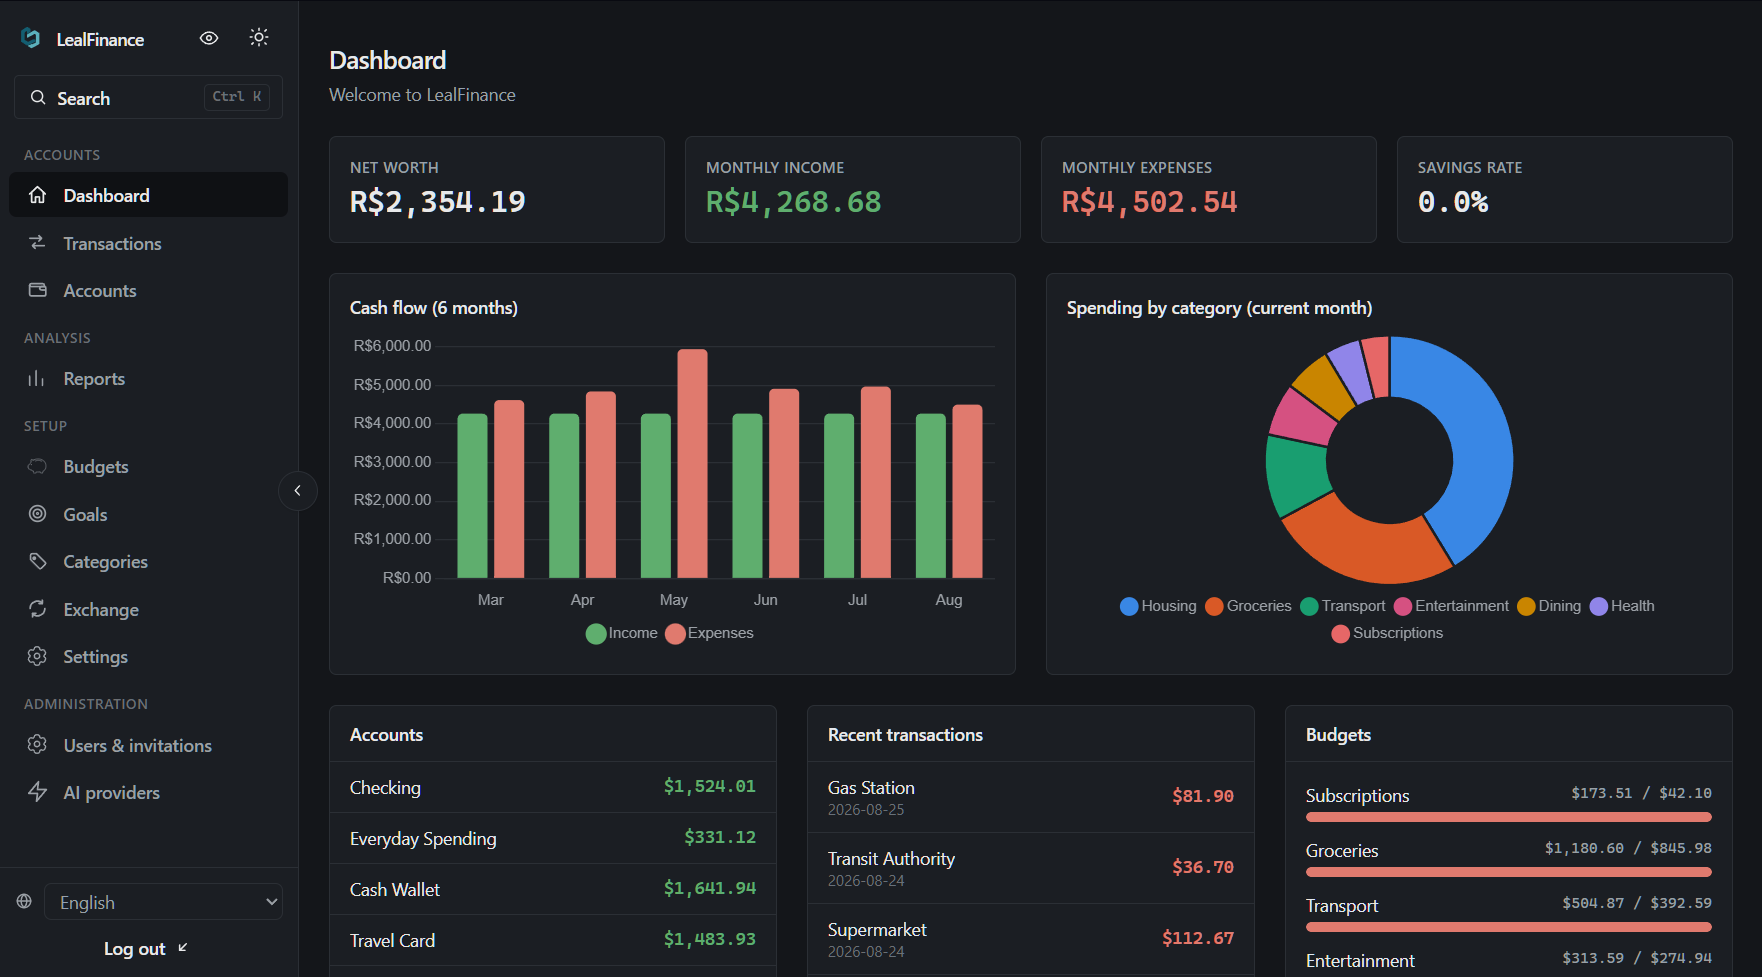
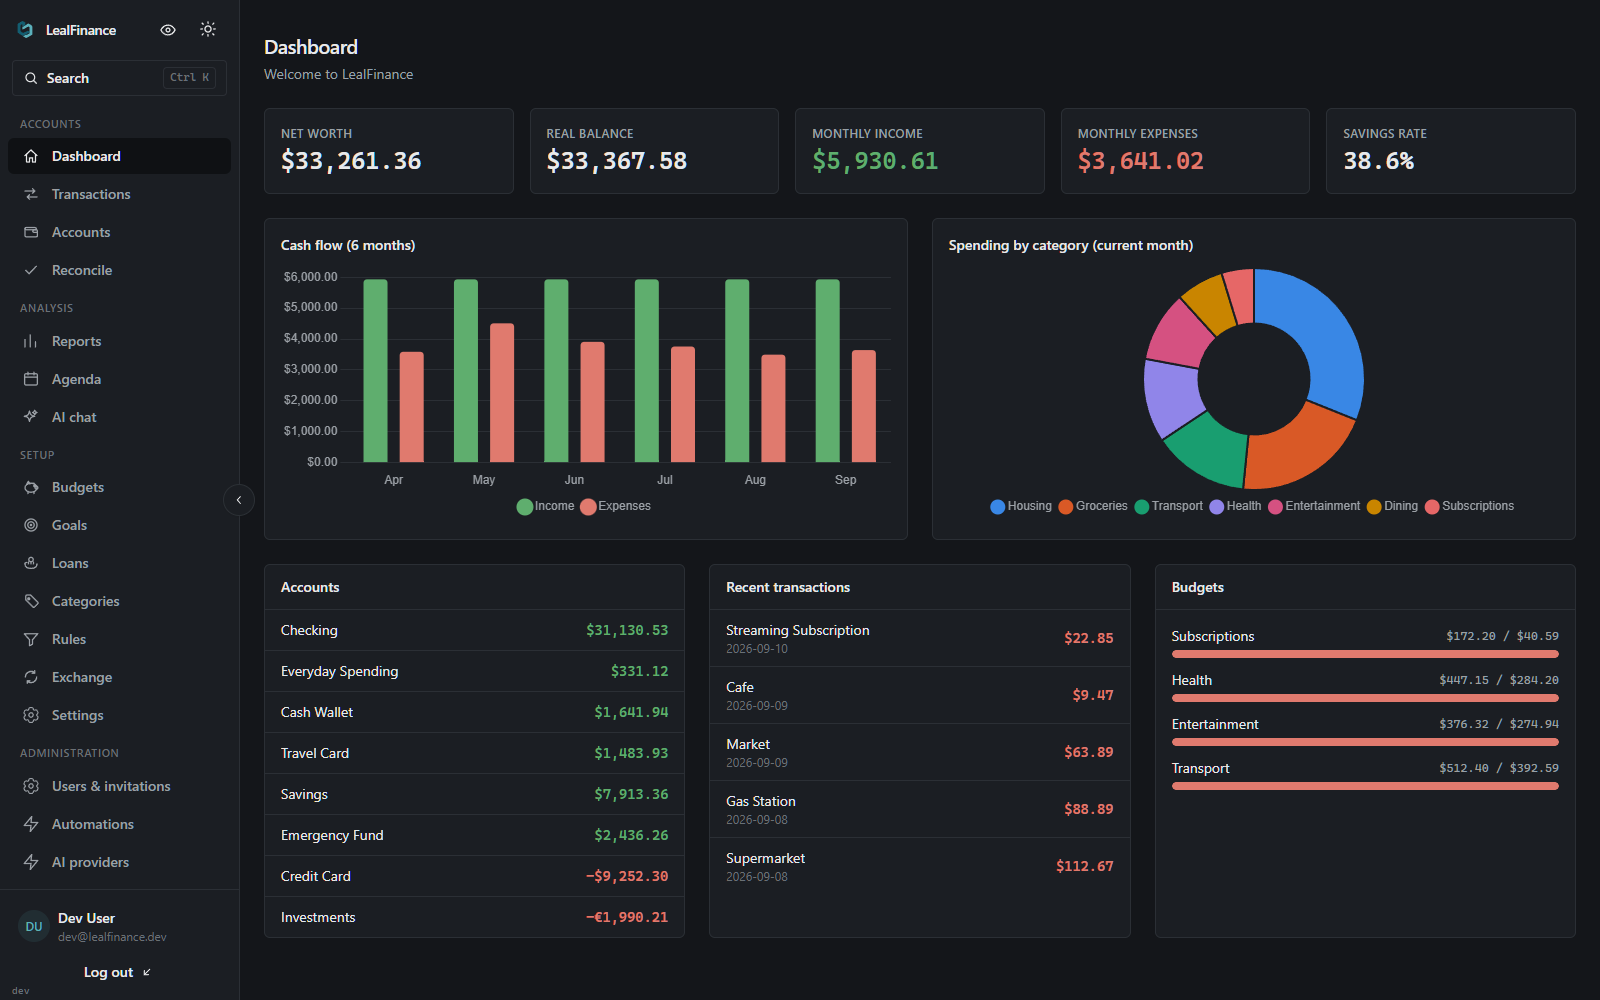
fix: translate CSV and backup file pickers, refresh README preview and credit Securo (#105)
Native file inputs showed the browser's own 'Choose File / No file chosen' text. They now use a hidden input behind a Transloco-translated button and status label, with common.file.* keys added to all 28 catalogs. The README preview is regenerated from the demo data, and a new Acknowledgements section credits Securo as an inspiration.

diff --git a/frontend/src/app/features/transactions/import/transaction-import.html b/frontend/src/app/features/transactions/import/transaction-import.html
@@ -6,15 +6,27 @@
       <div>
         <label class="form-label" for="import-file">{{ t('transactions.import.fields.file') }}</label>
         <input
-          id="import-file"
+          #fileInput
           type="file"
           accept=".csv,text/csv"
-          class="form-input"
+          hidden
           (change)="onFileSelected($event)"
         />
-        @if (fileName()) {
-          <p class="mt-1 text-xs text-content-muted">{{ fileName() }}</p>
-        }
+        <div class="flex flex-wrap items-center gap-x-3 gap-y-1">
+          <button
+            id="import-file"
+            appButton
+            variant="secondary"
+            type="button"
+            class="whitespace-nowrap"
+            (click)="fileInput.click()"
+          >
+            {{ t('common.file.choose') }}
+          </button>
+          <span class="min-w-0 break-all text-xs text-content-muted" dir="auto">
+            {{ fileName() || t('common.file.none') }}
+          </span>
+        </div>
       </div>
       <div>
         <label class="form-label" for="import-account">{{ t('transactions.filters.account') }}</label>

diff --git a/frontend/src/app/features/settings/settings.html b/frontend/src/app/features/settings/settings.html
@@ -433,13 +433,28 @@
       </p>
       <label class="form-label" for="backup-file">{{ t('settings.backup.restore.file') }}</label>
       <input
-        id="backup-file"
-        class="form-input"
+        #backupInput
         type="file"
         accept="application/json,.json"
-        [disabled]="restoreLoading()"
+        hidden
         (change)="onRestoreFile($event)"
       />
+      <div class="flex flex-wrap items-center gap-x-3 gap-y-1">
+        <button
+          id="backup-file"
+          appButton
+          variant="secondary"
+          type="button"
+          class="whitespace-nowrap"
+          [disabled]="restoreLoading()"
+          (click)="backupInput.click()"
+        >
+          {{ t('common.file.choose') }}
+        </button>
+        @if (!restoreFilename()) {
+          <span class="text-sm text-content-muted">{{ t('common.file.none') }}</span>
+        }
+      </div>
       @if (restoreFilename(); as filename) {
         <p class="mt-2 text-sm text-content-muted" role="status">
           {{ t('settings.backup.restore.selected', { filename }) }}

diff --git a/README.md b/README.md
@@ -122,6 +122,11 @@ contributing.
 - [`SUPPORT.md`](SUPPORT.md) - questions, bugs, and feature requests
 - [`CODE_OF_CONDUCT.md`](CODE_OF_CONDUCT.md) - community expectations
 
+## Acknowledgements
+
+LealFinance is inspired by [Securo](https://github.com/securo-finance/securo).
+It is an independent project and is not based on Securo's code.
+
 ## LICENSE
 
 GNU Affero General Public License, version 3.
